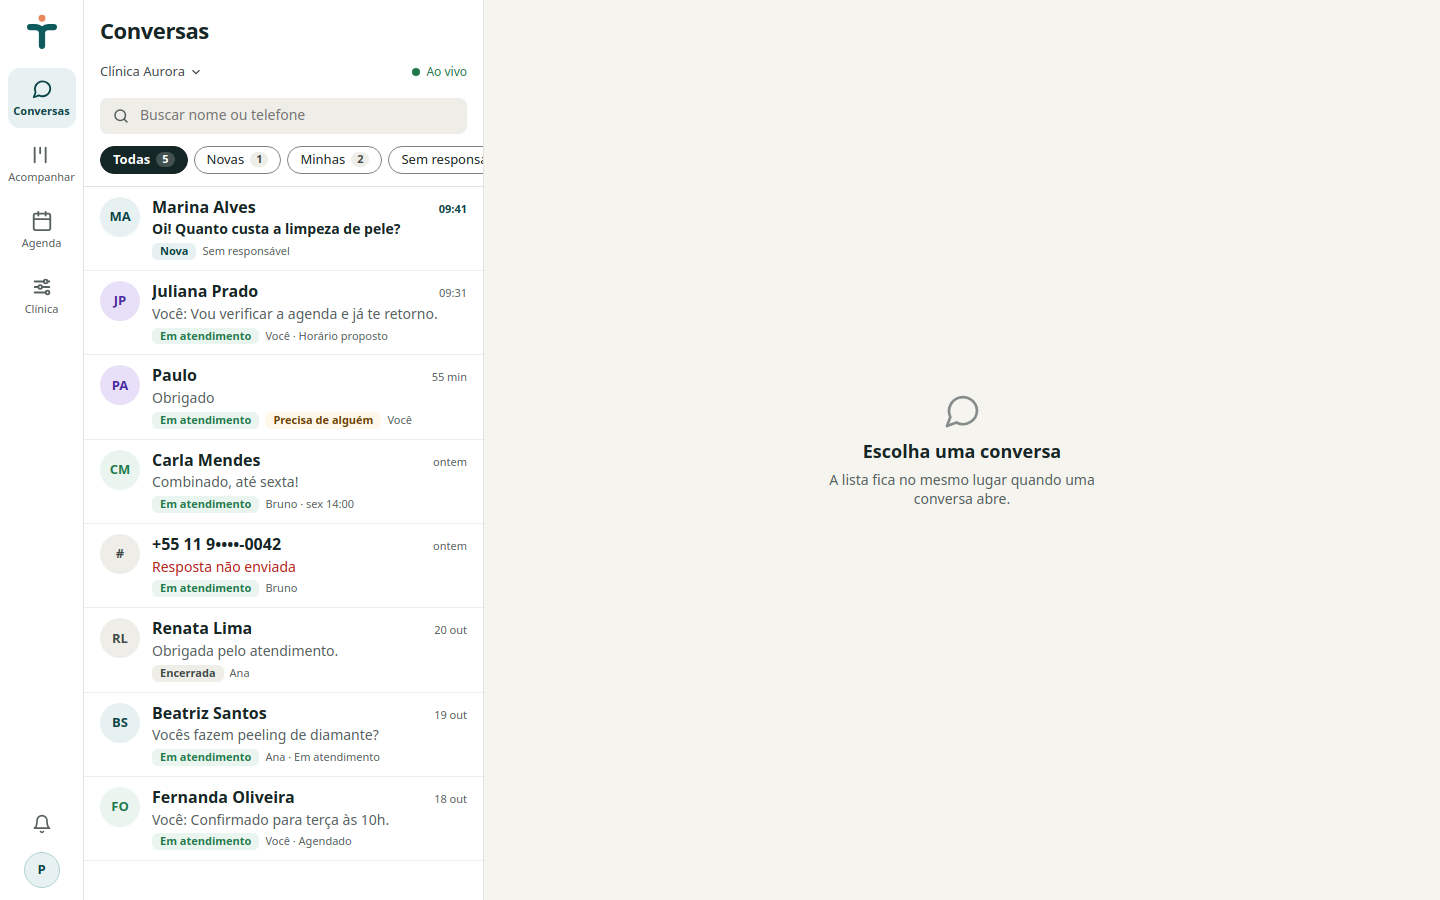
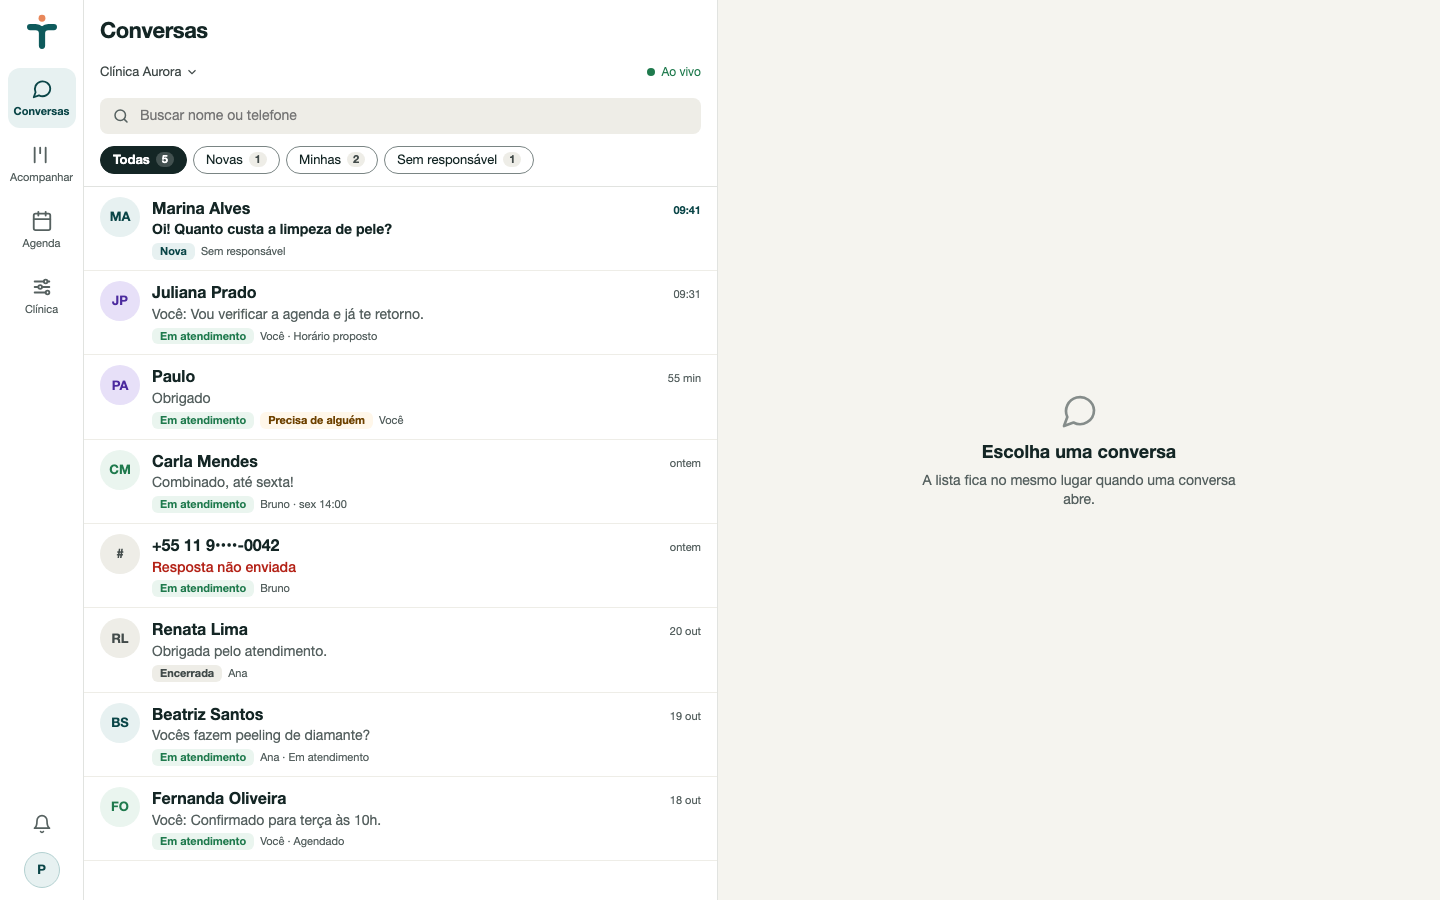
feat(ui): alarga a lista de conversas no desktop
A coluna deixa os 400 px fixos e passa a 44% da janela (420–760 px), para acompanhar o WhatsApp Web sem perder a densidade da Opção A.

diff --git a/src/client/ui/panel.css b/src/client/ui/panel.css
@@ -4599,7 +4599,7 @@
 @media (min-width: 1280px) {
   .conversas-3col:not(.conversas-3col--drawer) {
     --conversas-thread-min: 400px;
-    --conversas-list-width: 400px;
+    --conversas-list-width: clamp(420px, 44vw, 760px);
     grid-template-columns: var(--conversas-list-width) minmax(var(--conversas-thread-min), 1fr);
   }
 }
@@ -6554,11 +6554,11 @@
 
   /*
    * Densidade Conversas desktop (Confirmado Paulo 31/10/2026, Opção A / mocks WA):
-   * lista estável ~400 px (ainda no intervalo DEC-068 360–520), header compacto,
-   * busca sunken, linhas densas, empty simples, thread com bolhas/compositor.
+   * header compacto, busca sunken, linhas densas, empty simples, thread com bolhas.
+   * Largura revista no mesmo dia («aplica»): 44% da janela, mín. 420, máx. 760.
    */
   .conversas-3col {
-    --conversas-list-width: 400px;
+    --conversas-list-width: clamp(420px, 44vw, 760px);
     grid-template-columns: var(--conversas-list-width) minmax(var(--conversas-thread-min), 1fr);
   }
 
@@ -6749,8 +6749,8 @@
 }
 
 /* ——— Painel de detalhe deslizante (Conversas): por cima, sem véu, sem empurrar a lista ———
- * Duas colunas (lista · conversa). Em ≥1280 px a lista fica ~400 px (Opção A Confirmada);
- * entre 1024 e 1279 px usa o intervalo DEC-068. O contato entra da direita em 200 ms. */
+ * Duas colunas (lista · conversa). Em ≥1280 px a lista é 44% da janela (420–760 px);
+ * entre 1024 e 1279 px fica em 30% (360–520). O contato entra da direita em 200 ms. */
 .conversas-3col,
 .conversas-3col:not(.conversas-3col--drawer) {
   grid-template-columns: clamp(360px, 30vw, 520px) minmax(var(--conversas-thread-min), 1fr);
@@ -6759,7 +6759,7 @@
 @media (min-width: 1280px) {
   .conversas-3col,
   .conversas-3col:not(.conversas-3col--drawer) {
-    --conversas-list-width: 400px;
+    --conversas-list-width: clamp(420px, 44vw, 760px);
     grid-template-columns: var(--conversas-list-width) minmax(var(--conversas-thread-min), 1fr);
   }
 }

diff --git a/docs/design/desktop/ConversasDesktopProposta.dc.html b/docs/design/desktop/ConversasDesktopProposta.dc.html
@@ -41,9 +41,9 @@ button:focus-visible,a:focus-visible,input:focus-visible{outline:2px solid #0E5A
   Proposta visual desktop TEL-01 (31/10/2026) — densidade e master–detail
   próximos do WhatsApp Web, com rail e tokens Tredane (DEC-041/050/068/070/081).
   Estado: Proposto até o Paulo decidir. Sem implementação de código do painel.
-  Viewport: 1440×900. Lista estável 400 px. Empty simples (sem card promo).
+  Viewport: 1440×900. Lista a 44% da janela (634 px). Empty simples (sem card promo).
 -->
-<div class="d" style="width:1440px;height:900px;box-sizing:border-box;display:grid;grid-template-columns:84px 400px minmax(0,1fr);background:var(--app);color:var(--tx);font-family:Roboto,&quot;Helvetica Neue&quot;,Helvetica,Arial,sans-serif;font-size:14px;line-height:1.35;overflow:hidden">
+<div class="d" style="width:1440px;height:900px;box-sizing:border-box;display:grid;grid-template-columns:84px 634px minmax(0,1fr);background:var(--app);color:var(--tx);font-family:Roboto,&quot;Helvetica Neue&quot;,Helvetica,Arial,sans-serif;font-size:14px;line-height:1.35;overflow:hidden">
 
   <nav class="rl" aria-label="Áreas" style="background:var(--card);border-right:1px solid var(--bd);display:flex;flex-direction:column;align-items:center;gap:6px;padding:12px 0">
     <img src="../brand/svg/tredane-simbolo-cor.svg" alt="" width="40" height="40" style="width:40px;height:40px;margin-bottom:10px;display:block" aria-hidden="true">

diff --git a/docs/design/desktop/ConversasDesktopPropostaThread.dc.html b/docs/design/desktop/ConversasDesktopPropostaThread.dc.html
@@ -48,7 +48,7 @@ button:focus-visible,a:focus-visible,input:focus-visible,textarea:focus-visible{
   Mesma moldura e densidade do empty; thread com cabeçalho, bolhas e compositor
   alinhados ao hábito WhatsApp Web, visual Tredane. Estado: Proposto.
 -->
-<div class="d" style="width:1440px;height:900px;box-sizing:border-box;display:grid;grid-template-columns:84px 400px minmax(0,1fr);background:var(--app);color:var(--tx);font-family:Roboto,&quot;Helvetica Neue&quot;,Helvetica,Arial,sans-serif;font-size:14px;line-height:1.35;overflow:hidden">
+<div class="d" style="width:1440px;height:900px;box-sizing:border-box;display:grid;grid-template-columns:84px 634px minmax(0,1fr);background:var(--app);color:var(--tx);font-family:Roboto,&quot;Helvetica Neue&quot;,Helvetica,Arial,sans-serif;font-size:14px;line-height:1.35;overflow:hidden">
 
   <nav class="rl" aria-label="Áreas" style="background:var(--card);border-right:1px solid var(--bd);display:flex;flex-direction:column;align-items:center;gap:6px;padding:12px 0">
     <img src="../brand/svg/tredane-simbolo-cor.svg" alt="" width="40" height="40" style="width:40px;height:40px;margin-bottom:10px;display:block" aria-hidden="true">

diff --git a/docs/product/decisions.md b/docs/product/decisions.md
@@ -63,7 +63,7 @@
 | DEC-065 | Confirmado | «Detalhes» do Pix pendente | O que abre o link da faixa de Pix pendente na conversa? | Folha com valor, prazo e horário ainda não reservado, com **Reenviar cobrança** e **Cancelar cobrança**. Não altera DEC-047 (sem reserva antes do Pix) nem DEC-058 (texto fixo). | Paulo, 28/10/2026 (recomendação aprovada). Desenho da folha: pendente. |
 | DEC-066 | Confirmado | Encerrar não move a etapa | Encerrar a conversa move a oportunidade para «Concluído»? | Encerrar altera só o estado da conversa; a etapa não muda. «Perdido» continua manual (DEC-062). | Paulo, 28/10/2026 (recomendação aprovada). |
 | DEC-067 | Decidido (28/10/2026, Paulo, D-20261028-201300-CUR) | Proteção da equipe: imagens, sinalização e pausa | Imagens ocultas por padrão e buscadas só ao tocar em «Ver», legenda separada; imagens nunca vão à IA (DEC-011). Sinalização, ocultação e pausa humanas, sem obrigar abertura; detector só alerta, sujeito a revisão. Pausa/bloqueio negam ações novas no backend (S2 #173, S5 #176). Não altera DEC-046(c). Decididos: permissões de retomada (P-1), alcance/retenção (P-2), aviso à responsável (P-3). [Detalhe](protecao-equipe.md). | Pedido de Paulo, 28/10/2026 ([épico #182](https://github.com/intentzero/tredane/issues/182), [P1 #183](https://github.com/intentzero/tredane/issues/183)). |
-| DEC-068 | Confirmado | Moldura única do desktop (≥ 1280 px) | Como organizar as áreas no desktop sem que a página mude de moldura ao abrir uma conversa? | Todas as áreas usam menu lateral fixo de 84 px, barra superior e área de trabalho; as Conversas mantêm a lista na mesma coluna (largura revista em 29/10/2026 a pedido de Paulo: 30% da janela, mín. 360 e máx. 520 px, em vez de 360 px fixos) em `/conversas` e `/conversas/:id`, com a linha aberta marcada (`aria-current`) e o estado «Escolha uma conversa». **Confirmado (Paulo, 31/10/2026, Opção A):** em ≥ 1280 px a lista fica estável em **~400 px** (dentro do intervalo 360–520), com densidade visual dos mocks `ConversasDesktopProposta*`. A coluna de contexto da **Agenda** (Agendar, mês, filtros por profissional e sala, lista do dia) está implementada ([#242](https://github.com/intentzero/tredane/pull/242), épico [#235](https://github.com/intentzero/tredane/issues/235)); a da Clínica foi entregue pela [#244](https://github.com/intentzero/tredane/pull/244) (issue #226). **Em aberto:** verificação em staging das duas (cota do Durable Object esgotada em 29/10/2026); sino e conta no fim do menu. Abaixo de 1280 px nada muda. | Paulo, 29/10/2026 (pedido de implementação do épico [#207](https://github.com/intentzero/tredane/issues/207); issue #211). Revisão densidade Conversas 31/10/2026. Altera 3.1. |
+| DEC-068 | Confirmado | Moldura única do desktop (≥ 1280 px) | Como organizar as áreas no desktop sem que a página mude de moldura ao abrir uma conversa? | Todas as áreas usam menu lateral fixo de 84 px, barra superior e área de trabalho; as Conversas mantêm a lista na mesma coluna (largura revista em 29/10/2026 a pedido de Paulo: 30% da janela, mín. 360 e máx. 520 px, em vez de 360 px fixos) em `/conversas` e `/conversas/:id`, com a linha aberta marcada (`aria-current`) e o estado «Escolha uma conversa». **Confirmado (Paulo, 31/10/2026, Opção A):** densidade visual dos mocks `ConversasDesktopProposta*` (header compacto, busca sunken, linhas de ponta a ponta). **Revista no mesmo dia (Paulo, «aplica»):** em ≥ 1280 px a lista deixa os ~400 px fixos e passa a 44% da janela, mín. 420 e máx. 760 px, para acompanhar o WhatsApp Web. A coluna de contexto da **Agenda** (Agendar, mês, filtros por profissional e sala, lista do dia) está implementada ([#242](https://github.com/intentzero/tredane/pull/242), épico [#235](https://github.com/intentzero/tredane/issues/235)); a da Clínica foi entregue pela [#244](https://github.com/intentzero/tredane/pull/244) (issue #226). **Em aberto:** verificação em staging das duas (cota do Durable Object esgotada em 29/10/2026); sino e conta no fim do menu. Abaixo de 1280 px nada muda. | Paulo, 29/10/2026 (pedido de implementação do épico [#207](https://github.com/intentzero/tredane/issues/207); issue #211). Revisão densidade Conversas 31/10/2026. Altera 3.1. |
 | DEC-069 | Confirmado | Painel de detalhe deslizante por cima | O detalhe da direita empurra a área de trabalho ou desliza por cima? | No desktop o painel de 380 px entra da direita por cima, em 200 ms, sem véu; não bloqueia a área; fecha com ×, Esc ou novo toque no item; o foco vai ao painel e volta ao item; sem animação com «reduzir movimento». Nas Conversas a coluna de leitura desliza para a esquerda para não esconder mensagens nem o campo de escrita; a escolha de abrir ou fechar fica lembrada. Celular: sem mudança. O compromisso da **Agenda** abre assim no desktop ([#245](https://github.com/intentzero/tredane/pull/245)); cancelar o compromisso pede nova leitura da grade. **Em aberto:** a edição da Clínica ainda abre em tela cheia (E4, [#239](https://github.com/intentzero/tredane/issues/239)); verificação em staging do painel da Agenda. | Paulo, 29/10/2026 (issue #212). Altera DEC-064 só no formato do painel, não no conteúdo. |
 | DEC-070 | Confirmado | Logotipo oficial no painel | Onde aparece a marca no painel? | Símbolo de 32 px no cabeçalho (celular) e de 40 px no menu lateral (desktop), logotipo horizontal em «Entrar» e empilhado em «Escolha a clínica», usando os ficheiros de `docs/design/brand` sem alterar cor, proporção nem espaçamento (DEC-050). **Confirmado (Paulo, 29/10/2026):** o fundo do painel continua `#F5F4EF` (token `surface.app`); o Areia do kit (`#F4F1EA`) fica como cor de marca em materiais de marca, sem mudar a interface. | Paulo, 29/10/2026 (issue #209). |
 | DEC-071 | Confirmado | Seletor de clínica em dropdown | Trocar de clínica exige abrir a página inteira? | Com 2 ou mais clínicas, o nome no topo abre um menu (desktop) ou folha de baixo (celular) com as clínicas da pessoa, o papel em cada uma e ✓ na atual; com uma só, é texto. A troca navega para a rota da mesma área na clínica nova e o roteador chama o `selectTenant` (DEC-017: revalida o acesso, limpa cache e conexões da clínica anterior; chamá-lo antes de navegar fazia o roteador desfazer a troca, #231); na clínica onde é atendente, a área Clínica abre em Conversas. **Em aberto:** busca a partir de 7 clínicas; contagem de conversas novas nas outras clínicas (leitura de outra clínica fora da sessão ativa); aviso específico e regresso automático quando o acesso foi retirado. | Paulo, 29/10/2026 (issue #210). Preserva DEC-017. |

diff --git a/docs/product/ux-ui.md b/docs/product/ux-ui.md
@@ -60,7 +60,7 @@ TEL-07 Estados globais: conexão, sincronização, acesso revogado, erro de carr
 | --- | --- | --- | --- | --- |
 | Base (360–767 px) | Barra inferior com Conversas, Acompanhamento e Agenda (e **Clínica**, só para o responsável); badge de novas conversas. | Lista em tela cheia → conversa em tela cheia (sem barra inferior) → “Detalhes” em tela própria. | Abas roláveis por etapa; cartões em lista; mover pelo botão **Mover** em folha inferior. | Lista cronológica do dia com filtros por profissional e sala; espaços livres com **Agendar**. |
 | Tablet (≥ 768 px) | Barra lateral compacta. | Lista + conversa lado a lado; detalhes em gaveta. | Quadro com rolagem horizontal. | Grade com colunas por recurso. |
-| Desktop (≥ 1280 px) | **Confirmado (DEC-068):** menu lateral fixo de 84 px com o símbolo (DEC-070), barra superior com título, clínica e «Ao vivo». | Lista com 30% da janela (mín. 360, máx. 520 px; medido no WhatsApp Web em 29/10/2026, pedido de Paulo) e conversa; contato num painel por cima (DEC-069). `/conversas` e `/conversas/:id` partilham a moldura. | **Confirmado (DEC-072):** quadro em largura total sem coluna de contexto, filtros no topo, contato por cima. Sem arrastar (DEC-062). | **Confirmado (DEC-068/069), implementado:** coluna de 360 px com Agendar, mês pequeno, filtros por profissional e sala e a lista do dia; grade ao lado; o compromisso abre por cima (380 px, Esc/×). A faixa da semana sai neste tamanho. **Em aberto:** verificação em staging (E6, [#241](https://github.com/intentzero/tredane/issues/241)). |
+| Desktop (≥ 1280 px) | **Confirmado (DEC-068):** menu lateral fixo de 84 px com o símbolo (DEC-070), barra superior com título, clínica e «Ao vivo». | Lista com 44% da janela (mín. 420, máx. 760 px; Paulo, 31/10/2026, «aplica»; densidade da Opção A no mesmo dia) e conversa; contato num painel por cima (DEC-069). `/conversas` e `/conversas/:id` partilham a moldura. | **Confirmado (DEC-072):** quadro em largura total sem coluna de contexto, filtros no topo, contato por cima. Sem arrastar (DEC-062). | **Confirmado (DEC-068/069), implementado:** coluna de 360 px com Agendar, mês pequeno, filtros por profissional e sala e a lista do dia; grade ao lado; o compromisso abre por cima (380 px, Esc/×). A faixa da semana sai neste tamanho. **Em aberto:** verificação em staging (E6, [#241](https://github.com/intentzero/tredane/issues/241)). |
 
 Regras comuns:
 - Alvos de toque ≥ 44 × 44 px (altura visual dos botões e chips pode ser menor, com área clicável de 44 px; v0.4.0, **Confirmado**, DEC-081); ações principais (Enviar, Agendar, Confirmar) ficam na zona inferior da tela, alcançáveis com o polegar.
@@ -81,7 +81,7 @@ Cada tela lista jornada e requisitos de origem, conteúdo, ações, eventos em t
 
 **Origem:** JRN-01, JRN-02, JRN-04; REQ-010, REQ-011, REQ-012, REQ-020, REQ-021, REQ-022. **Estado:** Proposto.
 
-No celular, três telas encadeadas: lista (M-01) → conversa (M-02) → detalhes do contato e oportunidade (M-03), aberta ao tocar no nome no cabeçalho da conversa. **Confirmado (Paulo, 31/10/2026, Opção A mobile, mock M-54):** lista contínua full-bleed e busca sunken no celular, shell intacto; não muda jornada nem regras. No tablet, lista e conversa ficam lado a lado e os detalhes viram gaveta; no desktop (≥ 1280 px), lista estável **~400 px** (ainda no intervalo DEC-068 360–520) e conversa fluida, com o contato num painel de 380 px que desliza por cima (DEC-069; substitui a terceira coluna de 320 px). **Confirmado (Paulo, 31/10/2026, Opção A desktop):** densidade estilo WhatsApp Web — header compacto, busca sunken, linhas densas, empty simples «Escolha uma conversa», thread com bolhas e compositor; tokens Tredane; rail, filtros, Ao vivo e estados mantêm-se. Mocks de referência: `desktop/ConversasDesktopProposta.dc.html` e `ConversasDesktopPropostaThread.dc.html`.
+No celular, três telas encadeadas: lista (M-01) → conversa (M-02) → detalhes do contato e oportunidade (M-03), aberta ao tocar no nome no cabeçalho da conversa. **Confirmado (Paulo, 31/10/2026, Opção A mobile, mock M-54):** lista contínua full-bleed e busca sunken no celular, shell intacto; não muda jornada nem regras. No tablet, lista e conversa ficam lado a lado e os detalhes viram gaveta; no desktop (≥ 1280 px), lista com 44% da janela (420–760 px) e conversa fluida, com o contato num painel de 380 px que desliza por cima (DEC-069; substitui a terceira coluna de 320 px). **Confirmado (Paulo, 31/10/2026, Opção A desktop):** densidade estilo WhatsApp Web — header compacto, busca sunken, linhas densas, empty simples «Escolha uma conversa», thread com bolhas e compositor; tokens Tredane; rail, filtros, Ao vivo e estados mantêm-se. Mocks de referência: `desktop/ConversasDesktopProposta.dc.html` e `ConversasDesktopPropostaThread.dc.html`.
 
 **Lista de conversas**
 - Item: nome do contato (ou telefone mascarado quando não houver nome), trecho da última mensagem, horário relativo, estado da conversa (Nova / Em atendimento / Encerrada), avatar ou iniciais do responsável atribuído, etapa da oportunidade.

diff --git a/docs/design/screens.md b/docs/design/screens.md
@@ -102,7 +102,7 @@ A moldura do desktop (≥ 1280 px), o painel de detalhe deslizante, o seletor de
 
 | Ficheiro | Tela | O que mostra | Estado |
 | --- | --- | --- | --- |
-| `desktop/ConversasDesktopProposta.dc.html` | TEL-01 lista + empty | Rail DEC-068, lista 400 px (busca sunken, chips Todas/Novas/Minhas/Sem responsável, linhas densas com Em atendimento / Precisa de alguém), empty centrado «Escolha uma conversa» — sem card promo | **Confirmado** (Paulo 31/10/2026, Opção A); implementado no painel |
+| `desktop/ConversasDesktopProposta.dc.html` | TEL-01 lista + empty | Rail DEC-068, lista a 44% de 1440 px (634 px; busca sunken, chips Todas/Novas/Minhas/Sem responsável, linhas densas com Em atendimento / Precisa de alguém), empty centrado «Escolha uma conversa» — sem card promo | **Confirmado** (Paulo 31/10/2026, Opção A; largura revista no mesmo dia, «aplica»); implementado no painel |
 | `desktop/ConversasDesktopPropostaThread.dc.html` | TEL-01 thread | Mesma moldura com Juliana aberta: cabeçalho, bolhas, sugestão IA e compositor; linha activa na lista | **Confirmado** (Paulo 31/10/2026, Opção A); implementado no painel |
 
 `desktop/Main.dc.html` permanece como exploração antiga (três colunas); a referência visual do desktop de Conversas são os mocks `ConversasDesktopProposta*`.

diff --git a/docs/design/CHANGELOG.md b/docs/design/CHANGELOG.md
@@ -3,6 +3,11 @@
 Registra mudanças nos tokens e nos mocks. Mais recente primeiro. IDs de telas não são renumerados.
 
 
+## 31/10/2026 — Lista de Conversas mais larga no desktop
+
+- **Confirmado** (Paulo, 31/10/2026, «aplica»): em ≥ 1280 px a lista deixa os 400 px fixos da Opção A e passa a 44% da janela, mín. 420 e máx. 760 px. A densidade (busca sunken, linhas de ponta a ponta, thread) mantém-se. Entre 1024 e 1279 px continua 30% (360–520).
+- Mocks `ConversasDesktopProposta.dc.html` e `ConversasDesktopPropostaThread.dc.html` no artboard de 1440 px: coluna de 634 px. DEC-068.
+
 ## 31/10/2026 — M-54 Conversas lista mobile (**Confirmado**, Opção A)
 
 - Mock `mobile/ConversasListaProposta.dc.html` + preview `M-54-ConversasListaProposta.png`: lista contínua full-bleed, busca sunken, densidade DEC-081, shell intacto.
